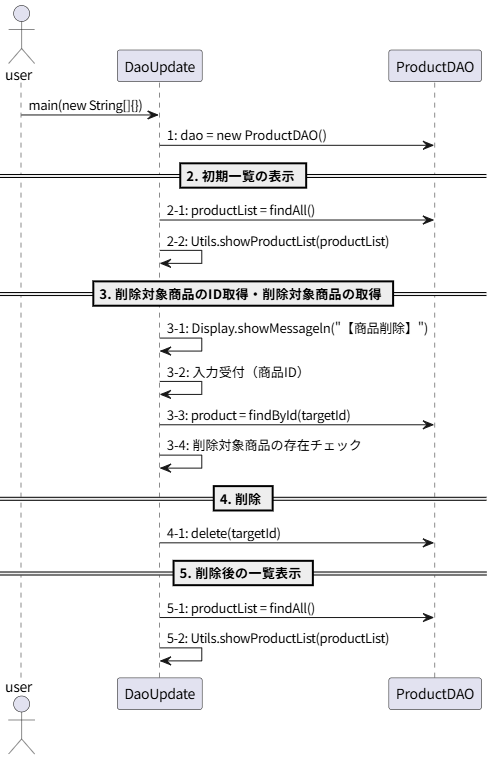
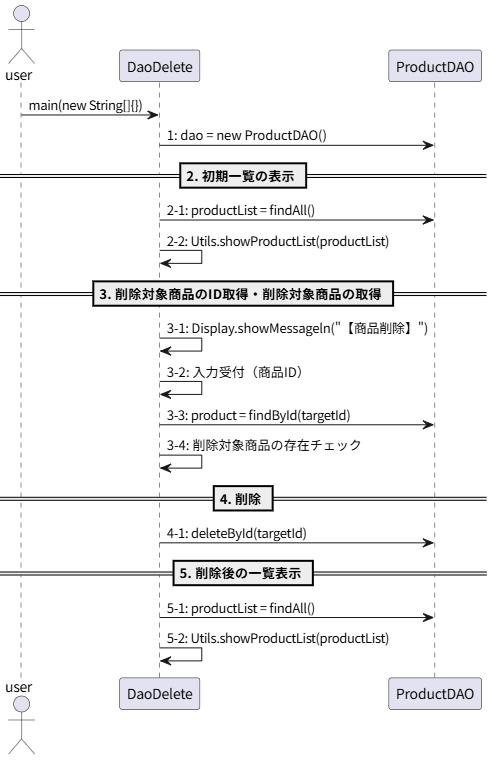
T2.23 - ruoquiang: レコード削除（チュートリアル）

Changed region(s): [[0.213, 0.0605, 0.426, 0.1211], [0.213, 0.8776, 0.426, 0.9382], [0.4564, 0.6961, 0.6389, 0.7263]]

diff --git a/docs/tutorials/dao/25-dao-delete.md b/docs/tutorials/dao/25-dao-delete.md
@@ -1,0 +1,138 @@
+# *T2.23*　DAOによるCRUD操作・削除 ～ 商品を削除してみた編
+
+[Javaによるデータベース接続とCRUD操作のチュートリアル](../tutorials.md) > [DAOによるCRUD操作](./20-dao.md)
+
+---
+### 今回のチュートリアル対象
+
+- コミット：[f2d9d62](https://github.com/612-teacher001/jbasic-dao-demo/commit/f2d9d62)
+- クラス：[`jp.example.app.t2.DaoDelete`](https://github.com/612-teacher001/jbasic-dao-demo/blob/main/src/main/java/jp/example/app/t2/DaoDelete.java)  
+　　　[`jp.example.app.dao.ProductDAO`](https://github.com/612-teacher001/jbasic-dao-demo/blob/main/src/main/java/jp/example/app/dao/ProductDAO.java)
+
+---
+
+## 1. 概要
+
+このチュートリアルでは、**DAOを使ったレコード削除の方法** について解説します。
+
+---
+
+## 2. 事前準備
+
+データベースの詳細については、データベース接続情報を含めて [データベース概要](../00-database.md) を参照してください。
+
+---
+
+## 3. 解説
+
+今回のチュートリアルは、更新処理と登録処理で共通している部分をまとめて補助メソッド化した部分について解説します。
+
+## 3.1. 処理の流れ
+`DaoInsert#main` メソッドの処理の流れは以下のようになります：
+<figure>
+<figcaption>● DaoDelete#mainメソッドの処理の流れ図 ●</figcaption>
+<!-- ![ProductDAO初期形態](../img/productdao.png) -->
+<img src="../img/daodelete_seq.png" width="450" alt="DaoDelete#mainメソッドの処理の流れ図" />
+</figure>
+
+
+## 3.2. `DaoDelete` クラス
+
+```java
+public class DaoDelete {
+
+	public static void main(String[] args) {
+		try (// 手順-1. ProductDAOをインスタンス化
+			 ProductDAO dao = new ProductDAO();) {
+			// 手順-2. 初期一覧の表示
+			//   2-1. 全件取得
+			List<Product> productList = dao.findAll();
+			//   2-2. 商品リストの表示
+			Utils.showProductList(productList);
+			System.out.println();
+			// 手順-3. 削除対象商品のID取得と削除対象商品の取得
+			//   3-1. 商品を削除するメッセージを表示
+			Display.showMessageln("【商品削除 ft. ProductDAO】");
+			//   3-2. キーボードから削除対象商品のIDを取得
+			int targetId = Keyboard.getInputNumber("削除する商品のIDを入力してください：");
+			//   3-3. 入力された商品IDから商品を取得
+			Product target = dao.findById(targetId);
+			//   3-4. 取得した商品の存在チェック
+			if (target == null) {
+				Display.showMessageln("指定されたIDの商品は見つかりませんでした。");
+				return;
+			}
+			// 手順-4. 削除処理
+			dao.deleteById(targetId);
+			// 手順-5. 更新後の一覧表示
+			//   5-1. 全件取得
+			productList = dao.findAll();
+			//   5-2. 商品リストの表示
+			System.out.println();
+			Utils.showProductList(productList);
+		} catch (SQLException e) {
+			// 例外が発生した場合：スタックトレースを表示（必要最低限のエラー情報を表示）
+			e.printStackTrace();
+			return;
+		}
+		
+	}
+
+}
+```
+- クラスヘッダは途中省略しました。
+- 全体の処理の流れは、登録や更新の場合と同じなので割愛します。
+- 3-4では、取得した商品が存在しない場合でもエラーとならずに削除することができます。  
+しかし不要なDELETE文を実行してしまうことになるので冗長になるので、存在チェックをして存在しない場合はDELETE分の実行を抑制しています。
+- 手順-4では、`ProductDAO#deleteById(int)` メソッドを呼び出して、商品IDを指定して商品を削除しています。  
+一度削除したレコードは復元できません。  
+このチュートリアルでは確認処理を省略していますが、実務では削除前に対象レコードを表示してユーザーに確認を取ることが一般的です。
+
+## 3.3. `ProductDAO` クラス
+```java
+public class ProductDAO extends BaseDAO {
+
+	/**
+	 * クラス定数
+	 */
+	// SQL文字列群
+  ...（中略）...
+
+	private static final String SQL_DELETE_BY_ID = "DELETE FROM products WHERE id = ?";
+	
+  ...（中略）...
+
+	/**
+	 * 指定されたIDの商品を削除する
+	 * @param id 削除対象の商品ID
+	 * @throws SQLException 結果セット処理でエラーが発生した場合
+	 */
+	public void deleteById(int id) throws SQLException {
+		try (// 1. SQL実行オブジェクトの取得
+			 PreparedStatement pstmt = this.conn.prepareStatement(SQL_DELETE_BY_ID);) {
+			// 2. プレースホルダをパラメータで置換
+			pstmt.setInt(1, id);
+			// 3. SQLの実行
+			pstmt.executeUpdate();
+		}
+	}
+
+...（中略）...
+
+}
+```
+- クラスヘッダは途中省略しました。
+- 実行するSQLは削除なので、個別のレコードを削除するには `WHERE id = ?` という条件が必須です。  
+条件を省略するとテーブルの全レコードが削除されます。
+
+## 5. まとめ
+
+ここのコードで学ぶべきポイント：
+
+	-	削除のSQLでは必ずWHERE句を指定する
+	- 削除対象が存在するか確認してから実行する
+	- 削除後のレコードは復元できない
+
+---
+
+[Javaによるデータベース接続とCRUD操作のチュートリアル](../tutorials.md) > [DAOによるCRUD操作](./20-dao.md)
